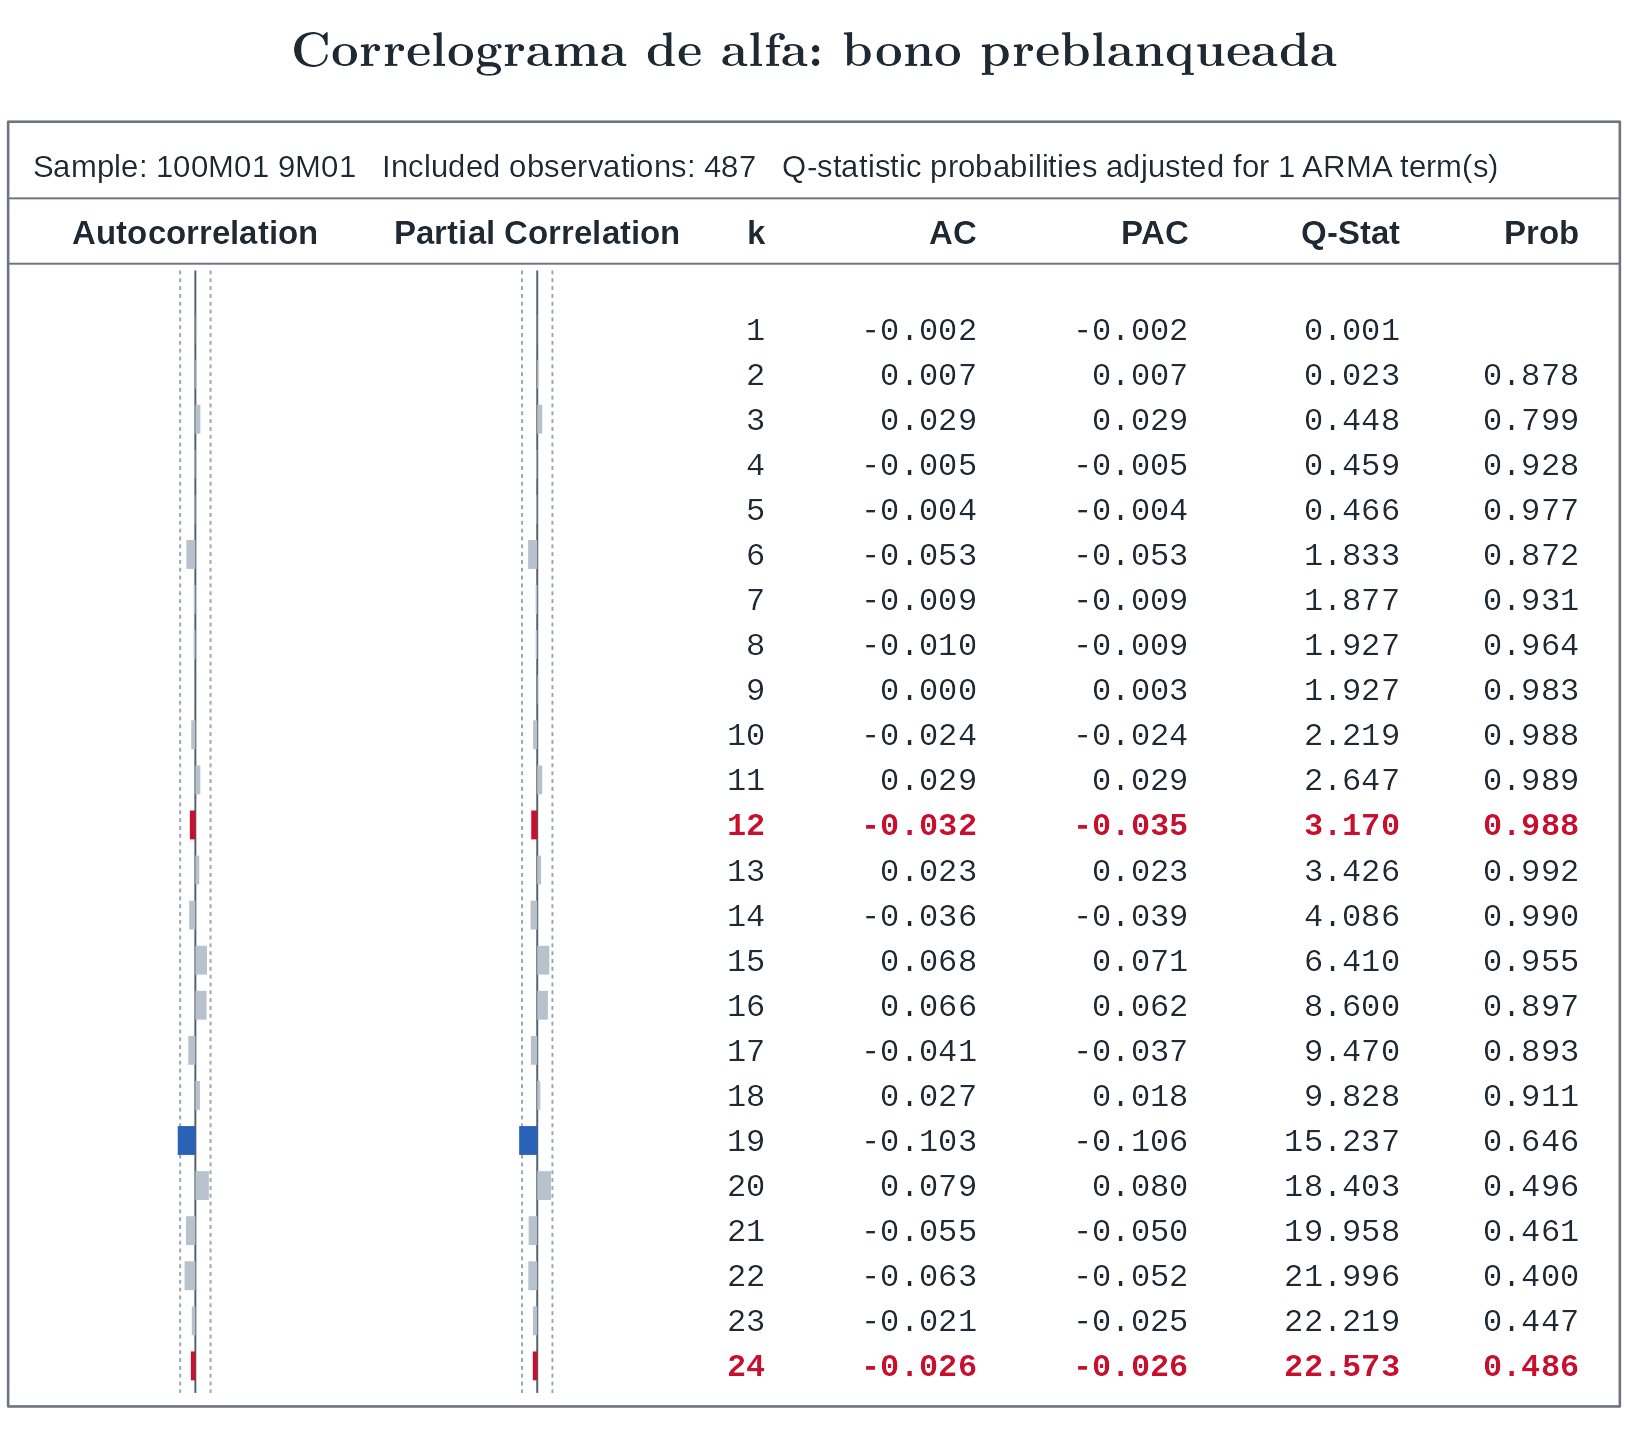
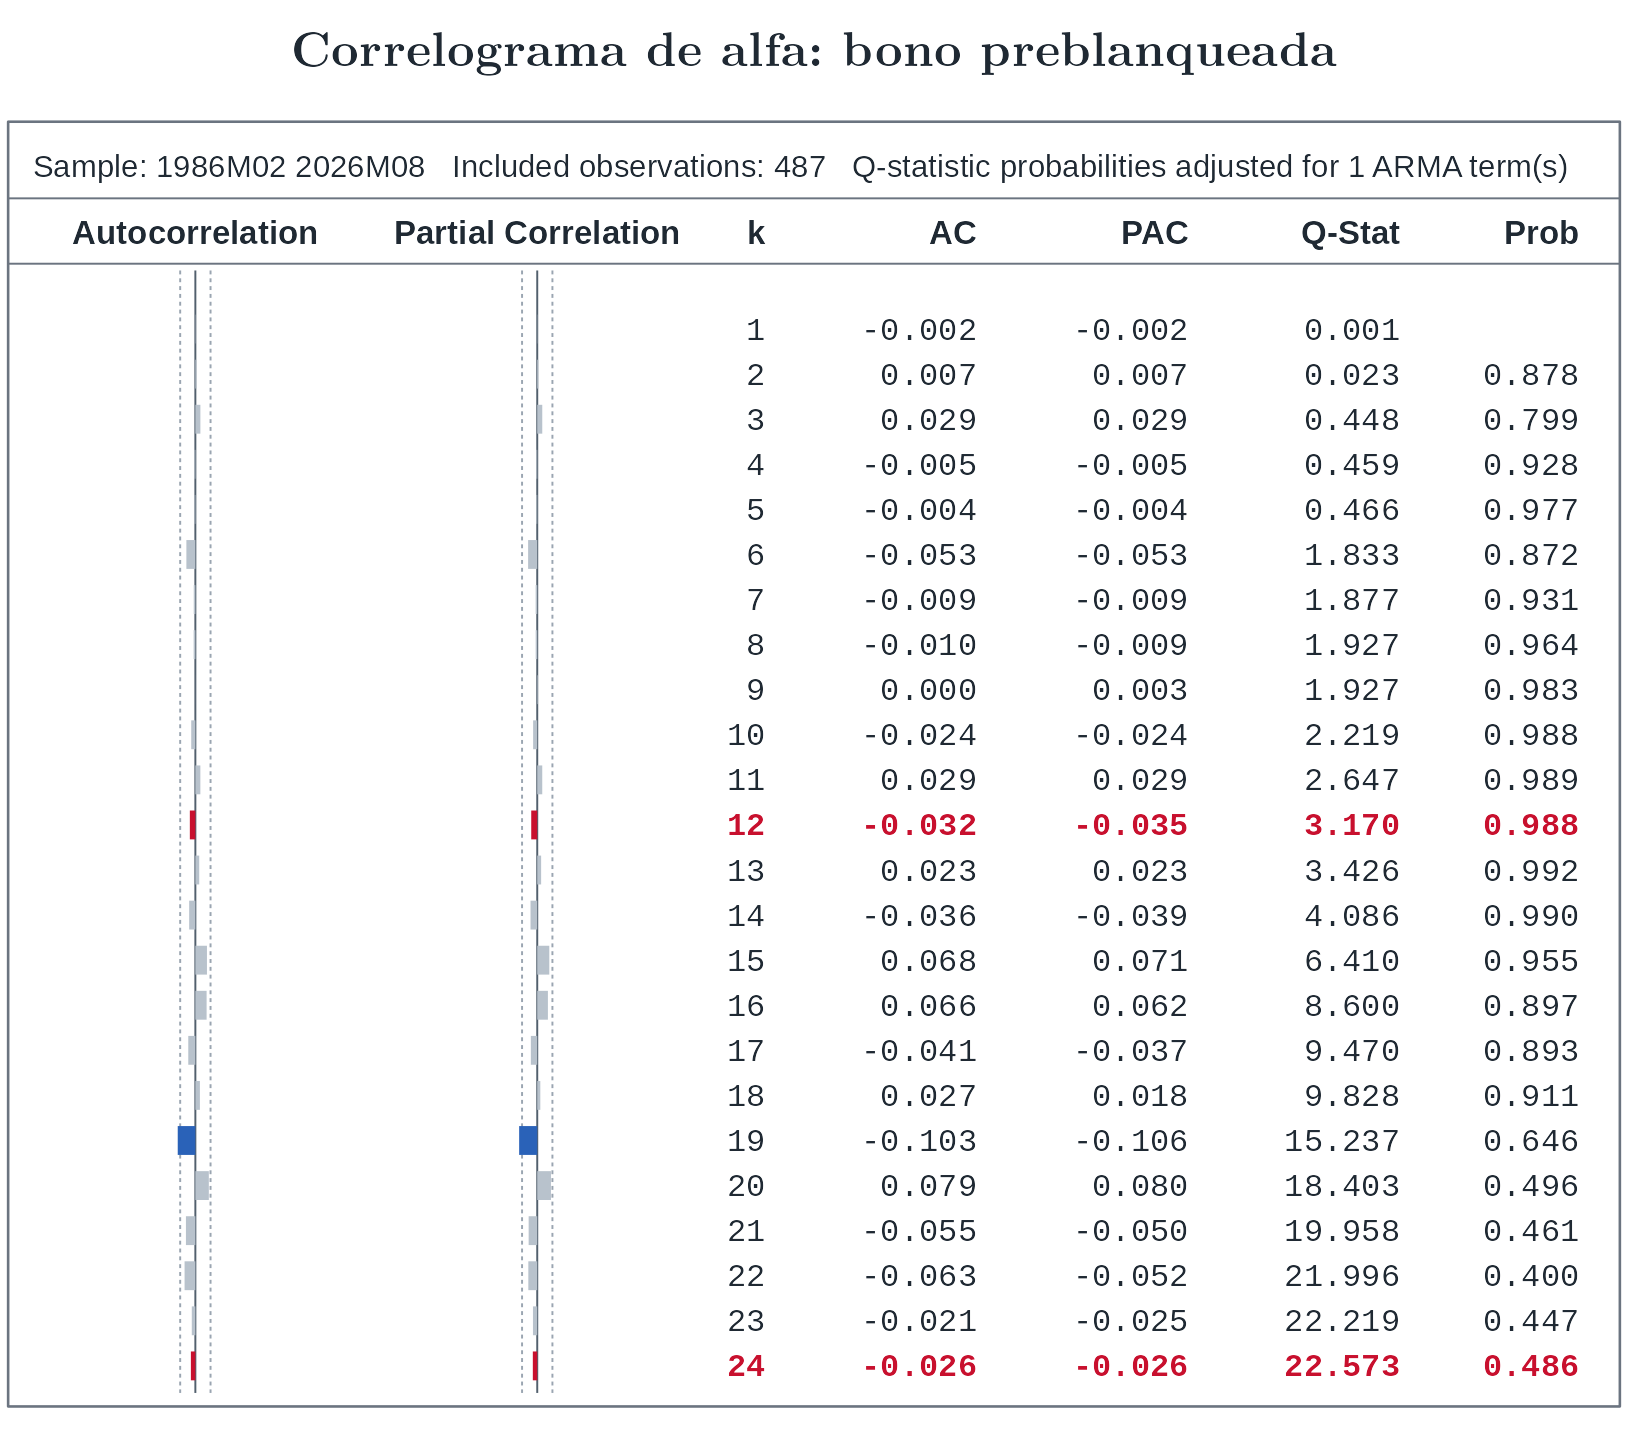
Funcion de transferencia: ee de la ganancia con la incertidumbre de phi y fechas del correlograma de alfa

Changed region(s): [[0.1229, 0.0924, 0.9521, 0.1232]]

diff --git a/viviendas_tasa/salidas/tablas/09_robustez_ruido.tex b/viviendas_tasa/salidas/tablas/09_robustez_ruido.tex
@@ -2,11 +2,11 @@
 \toprule
 Ruido & Ganancia $g$ (ee) & \% inicios por +1 pp & LB24 $p$ & $\Delta$SBC
 \\ \midrule
-\textcolor{red}{ARMA(1,2)(1,1)\ensuremath{_{12}}} & \textcolor{red}{\ensuremath{-}0{,}45 (0{,}11)} & \textcolor{red}{\ensuremath{-}6{,}3} & \textcolor{red}{0{,}563} & \textcolor{red}{0{,}0} \\
-ARMA(0,1)(1,1)\ensuremath{_{12}} & \ensuremath{-}0{,}35 (0{,}12) & \ensuremath{-}4{,}8 & 0{,}000 & 14{,}8 \\
-ARMA(0,1)(0,1)\ensuremath{_{12}} & \ensuremath{-}0{,}41 (0{,}12) & \ensuremath{-}5{,}7 & 0{,}000 & 19{,}7 \\
-ARMA(1,1)(1,1)\ensuremath{_{12}} & \ensuremath{-}0{,}35 (0{,}12) & \ensuremath{-}4{,}9 & 0{,}000 & 17{,}8 \\
-ARMA(0,2)(1,1)\ensuremath{_{12}} & \ensuremath{-}0{,}35 (0{,}12) & \ensuremath{-}5{,}0 & 0{,}000 & 16{,}4 \\
-ARMA(1,0)(1,1)\ensuremath{_{12}} & \ensuremath{-}0{,}34 (0{,}14) & \ensuremath{-}4{,}8 & 0{,}000 & 22{,}9 \\
+\textcolor{red}{ARMA(1,2)(1,1)\ensuremath{_{12}}} & \textcolor{red}{\ensuremath{-}0{,}45 (0{,}15)} & \textcolor{red}{\ensuremath{-}6{,}3} & \textcolor{red}{0{,}563} & \textcolor{red}{0{,}0} \\
+ARMA(0,1)(1,1)\ensuremath{_{12}} & \ensuremath{-}0{,}35 (0{,}14) & \ensuremath{-}4{,}8 & 0{,}000 & 14{,}8 \\
+ARMA(0,1)(0,1)\ensuremath{_{12}} & \ensuremath{-}0{,}41 (0{,}14) & \ensuremath{-}5{,}7 & 0{,}000 & 19{,}7 \\
+ARMA(1,1)(1,1)\ensuremath{_{12}} & \ensuremath{-}0{,}35 (0{,}14) & \ensuremath{-}4{,}9 & 0{,}000 & 17{,}8 \\
+ARMA(0,2)(1,1)\ensuremath{_{12}} & \ensuremath{-}0{,}35 (0{,}14) & \ensuremath{-}5{,}0 & 0{,}000 & 16{,}4 \\
+ARMA(1,0)(1,1)\ensuremath{_{12}} & \ensuremath{-}0{,}34 (0{,}16) & \ensuremath{-}4{,}8 & 0{,}000 & 22{,}9 \\
 \bottomrule
 \end{tabular}

diff --git a/viviendas_tasa/salidas/tablas/09_transferencia.tex b/viviendas_tasa/salidas/tablas/09_transferencia.tex
@@ -2,7 +2,7 @@
 \toprule
 Input & Filtro del input & FCC $k\geq0$: $p$ & FCC $k<0$: $p$ & Funci\'on de transferencia & Ruido & Ganancia $g$ (ee) & \% inicios por +1 pp del input & LB24 $p$ & $\hat\varepsilon$ vs $\alpha$, $k\geq0$ & $\hat\varepsilon$ vs $\alpha$, $k<0$ & SBC vs sin input
 \\ \midrule
-Tasa hipotecaria 30 a\~nos & ARMA(0,1) & 0{,}571 & 0{,}438 & $b=2$, $s=0$, $r=1$ ($\phi=0{,}75$) & ARMA(1,2)(1,1)\ensuremath{_{12}} & \textcolor{red}{\ensuremath{-}0{,}45 (0{,}11)} & \textcolor{red}{\ensuremath{-}6{,}3} & 0{,}56 & 0{,}752 & 0{,}197 & \ensuremath{-}8{,}4 \\
-Bono del Tesoro 10 a\~nos & ARMA(0,1) & 0{,}131 & 0{,}760 & $b=1$, $s=1$, $r=1$ ($\phi=0{,}65$) & ARMA(1,2)(1,1)\ensuremath{_{12}} & \ensuremath{-}0{,}11 (0{,}05) & \ensuremath{-}2{,}1 & 0{,}50 & 0{,}429 & 0{,}477 & \ensuremath{-}4{,}9 \\
+Tasa hipotecaria 30 a\~nos & ARMA(0,1) & 0{,}571 & 0{,}438 & $b=2$, $s=0$, $r=1$ ($\phi=0{,}75$) & ARMA(1,2)(1,1)\ensuremath{_{12}} & \textcolor{red}{\ensuremath{-}0{,}45 (0{,}15)} & \textcolor{red}{\ensuremath{-}6{,}3} & 0{,}56 & 0{,}752 & 0{,}197 & \ensuremath{-}8{,}4 \\
+Bono del Tesoro 10 a\~nos & ARMA(0,1) & 0{,}131 & 0{,}760 & $b=1$, $s=1$, $r=1$ ($\phi=0{,}65$) & ARMA(1,2)(1,1)\ensuremath{_{12}} & \ensuremath{-}0{,}11 (0{,}07) & \ensuremath{-}2{,}1 & 0{,}50 & 0{,}429 & 0{,}477 & \ensuremath{-}4{,}9 \\
 \bottomrule
 \end{tabular}

diff --git a/viviendas_tasa/salidas/tablas/valores_09.tex b/viviendas_tasa/salidas/tablas/valores_09.tex
@@ -4,9 +4,11 @@
 \newcommand{\TFBonoEsp}{$b=1$, $s=1$, $r=1$}
 \newcommand{\TFBonoFiltro}{ARMA(0,1)}
 \newcommand{\TFBonoGan}{\ensuremath{-}0{,}11}
-\newcommand{\TFBonoGanEE}{0{,}05}
+\newcommand{\TFBonoGanEE}{0{,}07}
+\newcommand{\TFBonoGanEEcond}{0{,}05}
 \newcommand{\TFBonoNeg}{0{,}760}
 \newcommand{\TFBonoPP}{\ensuremath{-}2{,}1}
+\newcommand{\TFBonoPhiEE}{0{,}14}
 \newcommand{\TFBonoPos}{0{,}131}
 \newcommand{\TFBonoRuido}{ARMA(1,2)(1,1)\ensuremath{_{12}}}
 \newcommand{\TFBonoSig}{$k=8$ (\ensuremath{-}0{,}10)}
@@ -20,10 +22,12 @@
 \newcommand{\TFTasaEsp}{$b=2$, $s=0$, $r=1$}
 \newcommand{\TFTasaFiltro}{ARMA(0,1)}
 \newcommand{\TFTasaGan}{\ensuremath{-}0{,}45}
-\newcommand{\TFTasaGanEE}{0{,}11}
+\newcommand{\TFTasaGanEE}{0{,}15}
+\newcommand{\TFTasaGanEEcond}{0{,}11}
 \newcommand{\TFTasaNeg}{0{,}438}
 \newcommand{\TFTasaPP}{\ensuremath{-}6{,}3}
 \newcommand{\TFTasaPhi}{0{,}75}
+\newcommand{\TFTasaPhiEE}{0{,}10}
 \newcommand{\TFTasaPos}{0{,}571}
 \newcommand{\TFTasaRuido}{ARMA(1,2)(1,1)\ensuremath{_{12}}}
 \newcommand{\TFTasaSig}{$k=-24$ (0{,}10), $k=-1$ (0{,}12), $k=16$ (\ensuremath{-}0{,}09), $k=17$ (0{,}10)}
